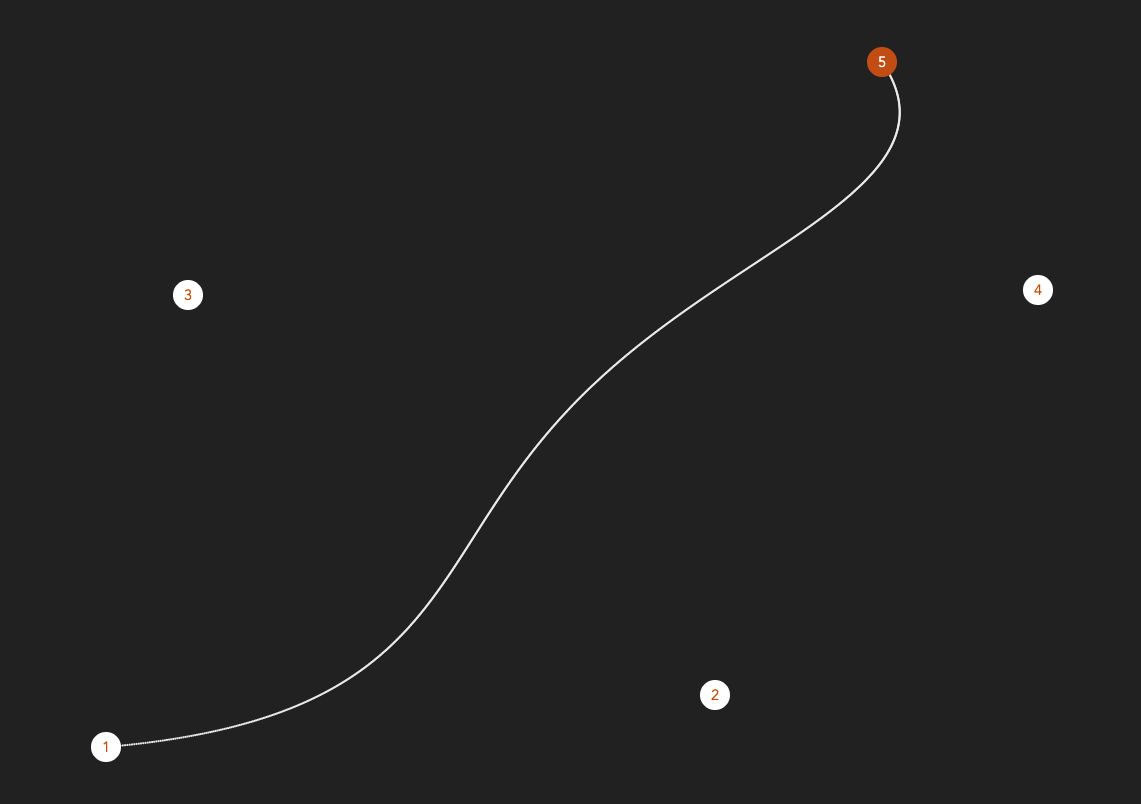
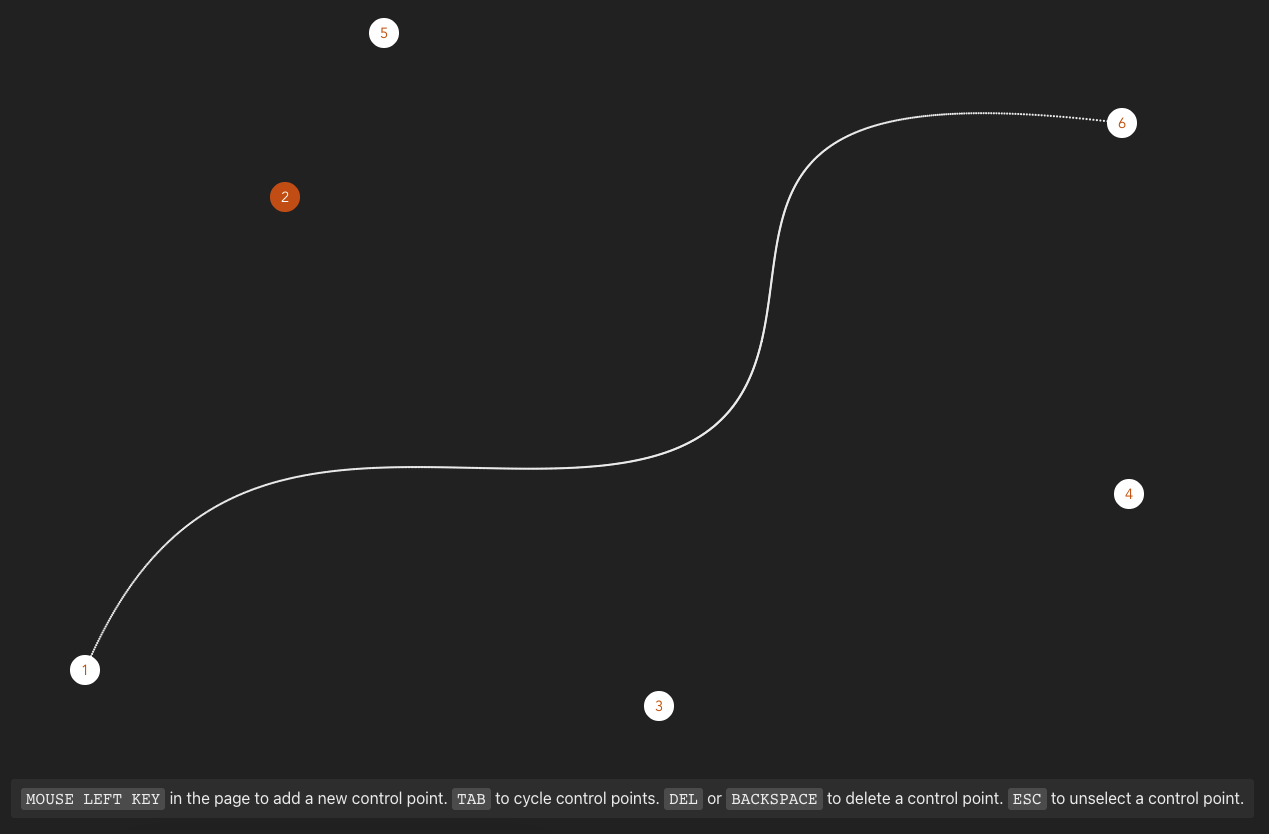
fix: build + help box

diff --git a/index.html b/index.html
@@ -2,13 +2,17 @@
 <html lang="en">
   <head>
     <meta charset="UTF-8" />
-    <link rel="icon" type="image/svg+xml" href="/vite.svg" />
     <meta name="viewport" content="width=device-width, initial-scale=1.0" />
     <link rel="stylesheet" href="https://necolas.github.io/normalize.css/8.0.1/normalize.css" />
-    <title>Vite + TS</title>
+    <title>Bezier</title>
   </head>
   <body>
     <canvas id="canvas"></canvas>
+    <div id="help">
+      <code>MOUSE LEFT KEY</code> in the page to add a new control point.
+      <code>TAB</code> to cycle control points. <code>DEL</code> or <code>BACKSPACE</code> to delete a control point.
+      <code>ESC</code> to unselect a control point.
+    </div>
     <script type="module" src="/src/main.ts"></script>
   </body>
 </html>

diff --git a/src/style.css b/src/style.css
@@ -2,6 +2,9 @@ html,
 body {
   font-family: Inter, system-ui, Avenir, Helvetica, Arial, sans-serif;
   overflow: hidden;
+  -webkit-font-smoothing: antialiased;
+  -moz-osx-font-smoothing: grayscale;
+  text-rendering: optimizeLegibility;
   background-color: #242424;
 }
 
@@ -11,4 +14,22 @@ body {
   top: 0;
   width: 100%;
   height: 100%;
+}
+
+#help {
+  position: fixed;
+  left: 20px;
+  bottom: 20px;
+  background-color: #333;
+  color: #eee;
+  padding: 10px;
+  border-radius: 3px;
+  max-width: 100%;
+  margin-right: 20px;
+}
+
+code {
+  background-color: #555;
+  border-radius: 3px;
+  padding: 2px 5px;
 }

diff --git a/src/Drawing.ts b/src/Drawing.ts
@@ -29,7 +29,7 @@ export class Drawing {
     }
   }
 
-  private redraw() {
+  redraw() {
     this.ctx.clearRect(0, 0, this.canvas.width, this.canvas.height);
     if (this.points.length > 1) this.drawBezier(this.points);
     this.drawPoints();

diff --git a/vite.config.js b/vite.config.js
@@ -1,0 +1,5 @@
+import { defineConfig } from 'vite'
+
+export default defineConfig({
+  base: './'
+})
